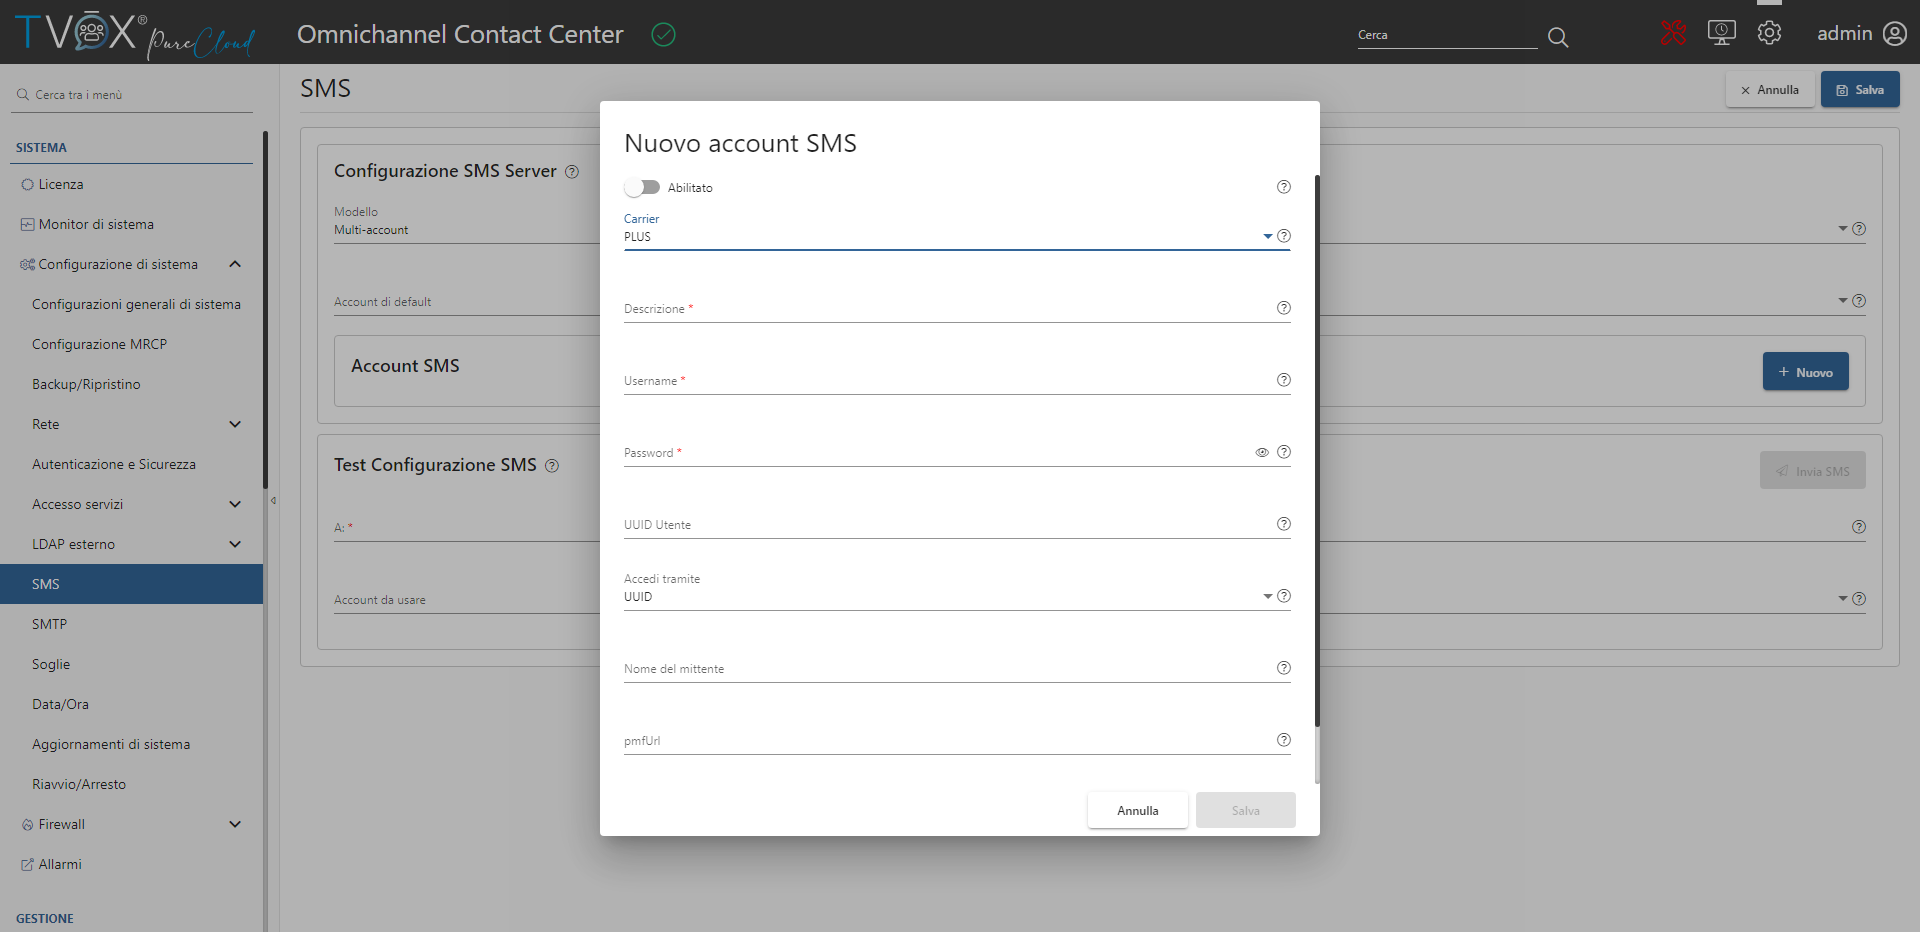
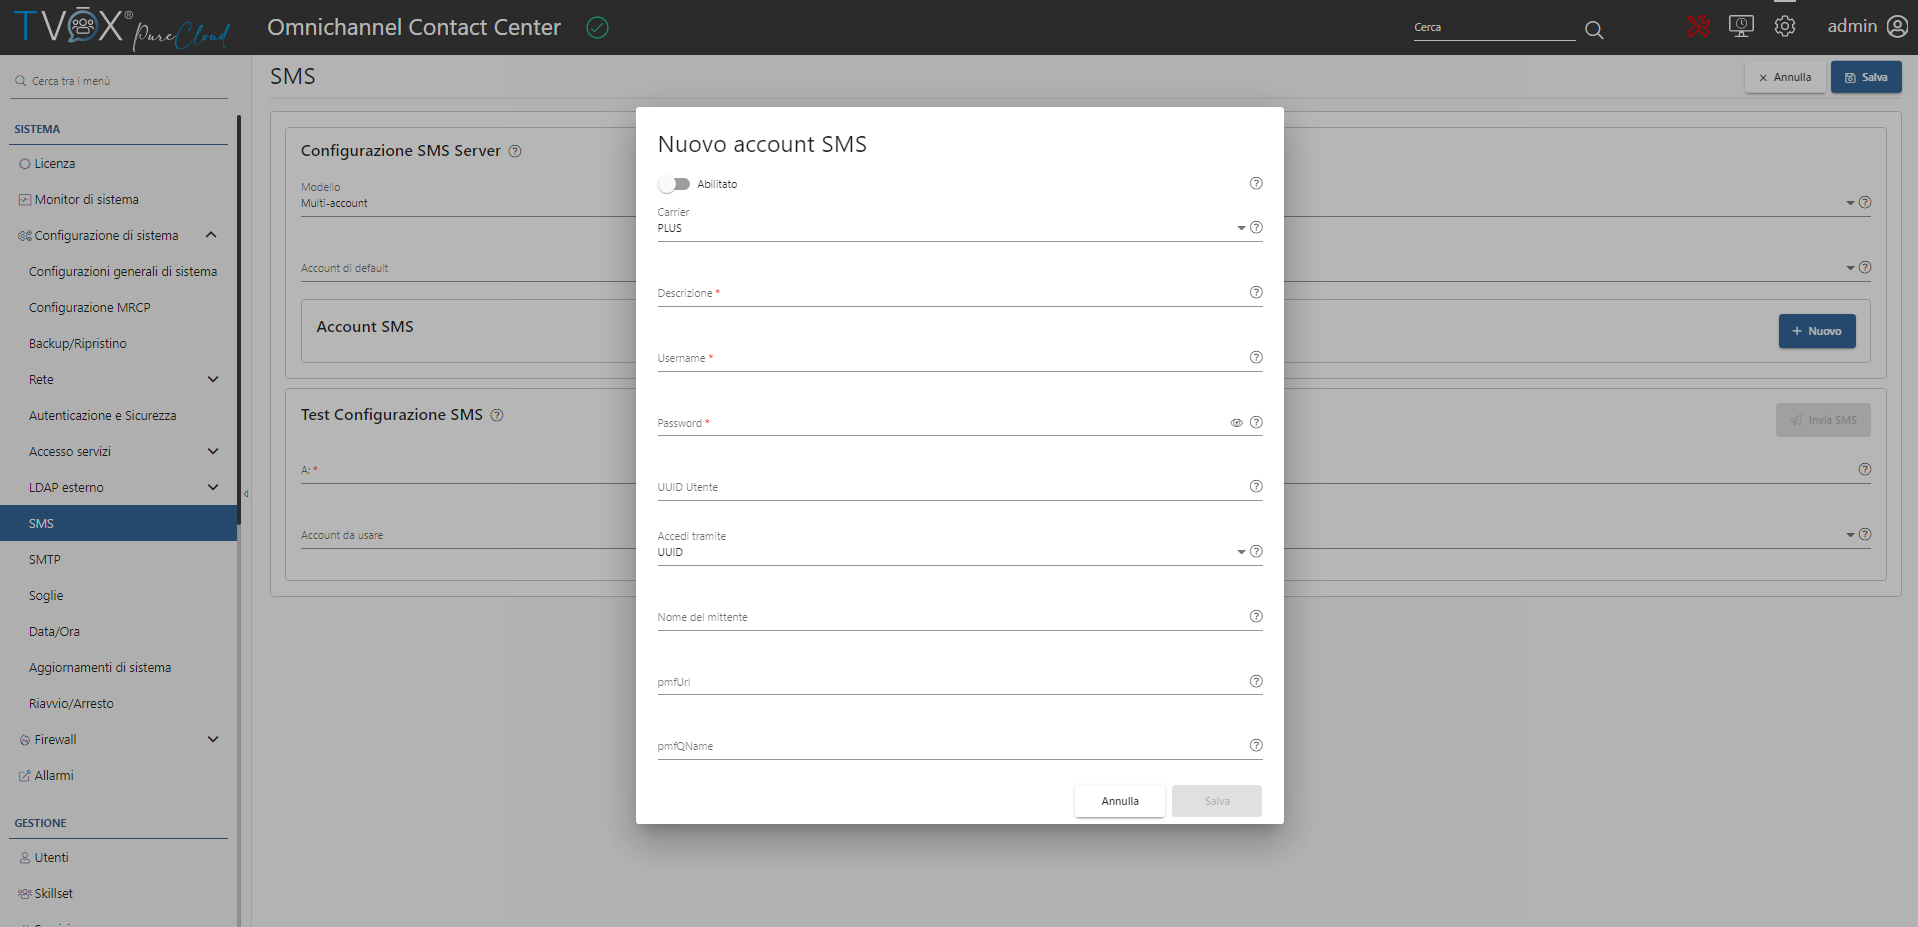
update multiaccount

diff --git a/source/projects/TVOX/MultiAccount.rst b/source/projects/TVOX/MultiAccount.rst
@@ -1,5 +1,6 @@
 .. _sms_multiaccount:
 .. _Agcom: https://www.agcom.it/alias
+.. _PMF - Plus Messaging Framework: https://www.plus-srl.com/pmf/
 
 
 ========================
@@ -51,8 +52,12 @@ Messagenet
 KPNQwest
 --------
 
-
 .. image:: /images/TVOX/sms_kpn.PNG
+
+*  **Descrizione**: breve descrizione dell'account. La descrizione consente di riconoscere a prima vista l'account nell'elenco di tutti gli account configurati (vedi immagine seguente)
+*  **Username**: username dell'account fornito dal provider
+*  **Password**: password dell'account fornito dal provider
+*  **Email dell'account amministrativo**: indirizzo email associato all'account fornito dal provider
 
 
 |br|
@@ -61,8 +66,17 @@ KPNQwest
 PLUS - PMF
 ----------
 
-
 .. image:: /images/TVOX/sms_plus.PNG
+
+*  **Descrizione**: breve descrizione dell'account. La descrizione consente di riconoscere a prima vista l'account nell'elenco di tutti gli account configurati (vedi immagine seguente)
+*  **Username**: cusername dell'account fornito dal provider
+*  **Password**: password dell'account fornito dal provider
+*  **UUID Utente**: Il parametro userUUID è il codice di identificazione per l'autenticazione `PMF - Plus Messaging Framework`_
+*  **Accedi tramite**: indica la modalità di login al servizio PMF
+*  **Nome del mittente**: Nome utilizzato come mittente dell'SMS
+*  **pmfUrl**: URL del servizio PMF
+*  **pmfQName**: QName del servizio PMF  
+
 
 
 |br|
@@ -74,5 +88,19 @@ TIM
 
 .. image:: /images/TVOX/sms_tim.PNG
 
+.. important:: 
+    La configurazione dell'account con provider TIM prevede che sia stato sottoscritto un contratto con Telecom Italia per l'utilizzo dei servizi di messaggistica in base alla convenzione  **Consip6** 
+    Il contratto è associato ad uno o più servizi identificati dai seguenti codici:
+     * BAS
+     * InfoMessage AVC
+     * InfoCity AVD
+     * Informazioni FIGLIO
+     * Infosondaggi
+    Questi parametri definiscono il codice del servizio acquistato che si intende utilizzare
 
+*  **Descrizione**: breve descrizione dell'account. La descrizione consente di riconoscere a prima vista l'account nell'elenco di tutti gli account configurati (vedi immagine seguente)
+*  **Username**: cusername dell'account fornito dal provider
+*  **Password**: password dell'account fornito dal provider
+*  **Contratto**: si veda la nota *important* precedente
+*  **Codice del servizio acquistato**: si veda la nota *important* precedente
 
